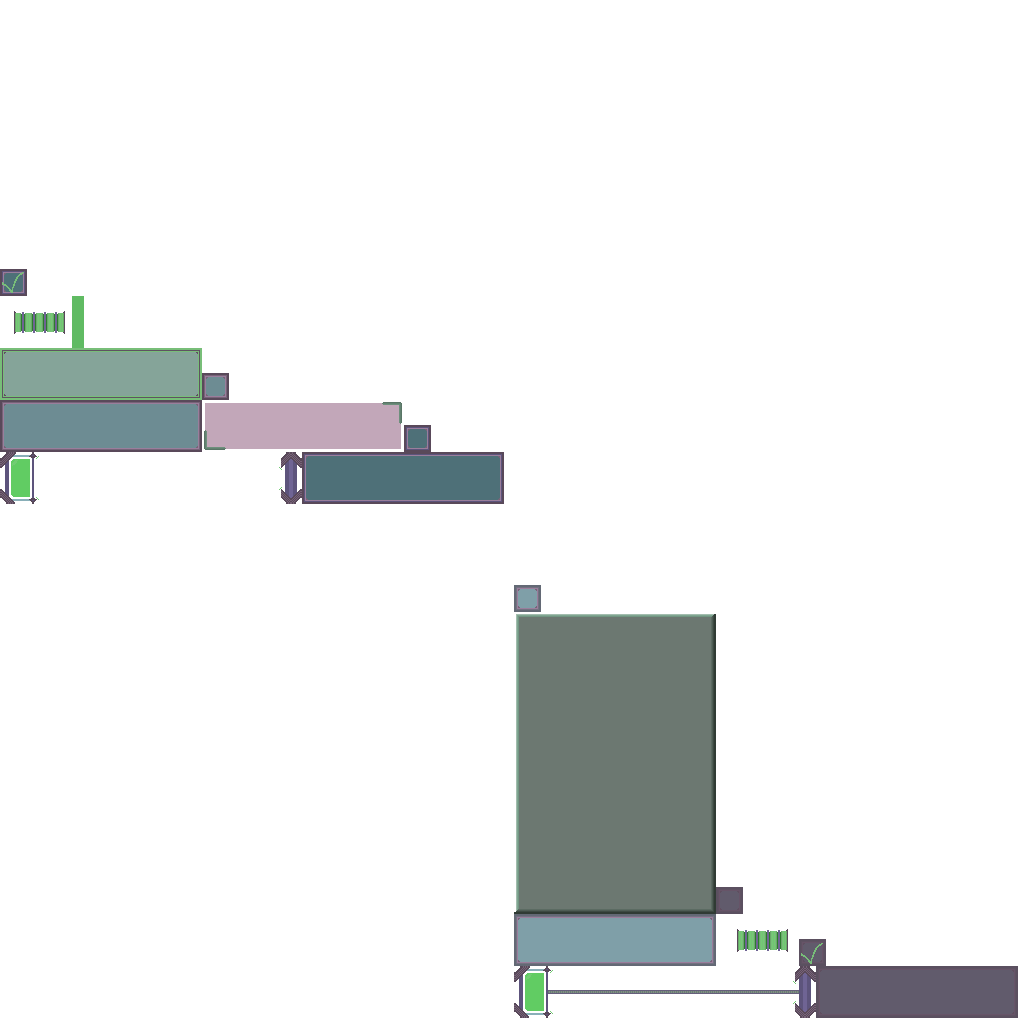
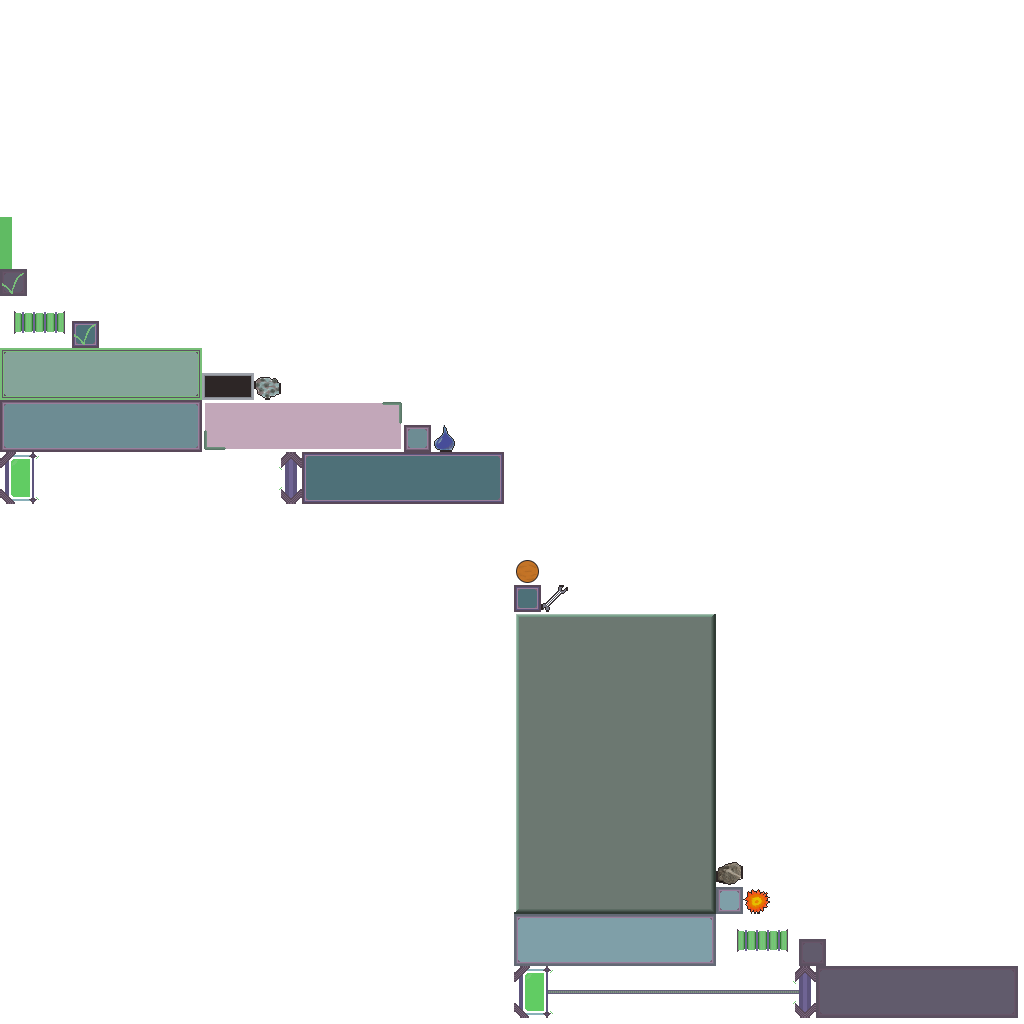
Improved planet stats indication

diff --git a/core/src/com/prophetsofprofit/galacticrush/graphics/screen/MainGameScreen.kt b/core/src/com/prophetsofprofit/galacticrush/graphics/screen/MainGameScreen.kt
@@ -6,6 +6,7 @@ import com.badlogic.gdx.graphics.Texture
 import com.badlogic.gdx.graphics.g2d.BitmapFont
 import com.badlogic.gdx.graphics.glutils.ShapeRenderer
 import com.badlogic.gdx.scenes.scene2d.InputEvent
+import com.badlogic.gdx.scenes.scene2d.ui.ImageButton
 import com.badlogic.gdx.scenes.scene2d.ui.Label
 import com.badlogic.gdx.scenes.scene2d.ui.TextButton
 import com.badlogic.gdx.scenes.scene2d.utils.ClickListener
@@ -38,10 +39,20 @@ class MainGameScreen(game: Main, var player: Player) : GalacticRushScreen(game, 
     val maxZoom = 1f
     //The planet currently selected by the player
     var selectedPlanet: Planet? = null
-    //The list of planet attributes
-    val planetLabel = Label("", Scene2DSkin.defaultSkin, "ui")
-    //The list of drones on the planet
-    val dronesList = Label("", Scene2DSkin.defaultSkin, "ui")
+    //The two panels on the side of the screen that are always displayed
+    val planetLabel = Label("Planet Stats", Scene2DSkin.defaultSkin, "ui")
+    val dronesList = Label("Drones", Scene2DSkin.defaultSkin, "ui")
+    //The icons and labels for planet information
+    val massIcon = ImageButton(Scene2DSkin.defaultSkin, "mass")
+    val temperatureIcon = ImageButton(Scene2DSkin.defaultSkin, "temp")
+    val atmosphereIcon = ImageButton(Scene2DSkin.defaultSkin, "atm")
+    val humidityIcon = ImageButton(Scene2DSkin.defaultSkin, "humid")
+    val solidityIcon = ImageButton(Scene2DSkin.defaultSkin, "solid")
+    val massLabel = Label("", Scene2DSkin.defaultSkin, "small")
+    val temperatureLabel = Label("", Scene2DSkin.defaultSkin, "small")
+    val atmosphereLabel = Label("", Scene2DSkin.defaultSkin, "small")
+    val humidityLabel = Label("", Scene2DSkin.defaultSkin, "small")
+    val solidityLabel = Label("", Scene2DSkin.defaultSkin, "small")
     //Below are the menu buttons: end turn, quit game, etc
     val endTurnButton = TextButton("Submit", Scene2DSkin.defaultSkin)
     val quitGameButton = TextButton("Quit", Scene2DSkin.defaultSkin)
@@ -59,10 +70,12 @@ class MainGameScreen(game: Main, var player: Player) : GalacticRushScreen(game, 
         this.dronesList.height = this.game.camera.viewportHeight / 3
         this.dronesList.setPosition(this.game.camera.viewportWidth - this.dronesList.width,
                 this.game.camera.viewportHeight / 3)
+        this.dronesList.setAlignment(Align.top)
         this.planetLabel.width = this.game.camera.viewportWidth / 8
         this.planetLabel.height = this.game.camera.viewportHeight / 3
         this.planetLabel.setPosition(this.game.camera.viewportWidth - this.dronesList.width,
                 this.game.camera.viewportHeight - this.planetLabel.height)
+        this.planetLabel.setAlignment(Align.top)
 
         this.endTurnButton.setPosition(this.game.camera.viewportWidth - this.endTurnButton.width, 0f)
         this.quitGameButton.setPosition(this.game.camera.viewportWidth - this.endTurnButton.width, this.endTurnButton.height)
@@ -78,6 +91,17 @@ class MainGameScreen(game: Main, var player: Player) : GalacticRushScreen(game, 
                 confirmationButtonNo.isVisible = true
             }
         })
+
+        this.massIcon.setPosition(this.planetLabel.getX() + this.massIcon.width / 5f, this.planetLabel.getY() + 9f * this.massIcon.height)
+        this.temperatureIcon.setPosition(this.planetLabel.getX() + this.temperatureIcon.width / 5f, this.planetLabel.getY() + 7f * this.temperatureIcon.height)
+        this.atmosphereIcon.setPosition(this.planetLabel.getX() + this.atmosphereIcon.width / 5f, this.planetLabel.getY() + 5f * this.atmosphereIcon.height)
+        this.humidityIcon.setPosition(this.planetLabel.getX() + this.humidityIcon.width / 5f, this.planetLabel.getY() + 3f * this.humidityIcon.height)
+        this.solidityIcon.setPosition(this.planetLabel.getX() + this.solidityIcon.width / 5f, this.planetLabel.getY() + 1f * this.solidityIcon.height)
+        this.massLabel.setPosition(this.planetLabel.getX() + 2f * this.massIcon.width, this.planetLabel.getY() + 9.5f * this.massIcon.height)
+        this.temperatureLabel.setPosition(this.planetLabel.getX() + 2f * this.temperatureIcon.width, this.planetLabel.getY() + 7.5f * this.temperatureIcon.height)
+        this.atmosphereLabel.setPosition(this.planetLabel.getX() + 2f * this.atmosphereIcon.width, this.planetLabel.getY() + 5.5f * this.atmosphereIcon.height)
+        this.humidityLabel.setPosition(this.planetLabel.getX() + 2f * this.humidityIcon.width, this.planetLabel.getY() + 3.5f * this.humidityIcon.height)
+        this.solidityLabel.setPosition(this.planetLabel.getX() + 2f * this.solidityIcon.width, this.planetLabel.getY() + 1.5f * this.solidityIcon.height)
 
         this.confirmationLabel.setAlignment(Align.top)
         this.confirmationLabel.width = this.game.camera.viewportWidth / 3
@@ -106,6 +130,16 @@ class MainGameScreen(game: Main, var player: Player) : GalacticRushScreen(game, 
 
         this.uiContainer.addActor(this.planetLabel)
         this.uiContainer.addActor(this.dronesList)
+        this.uiContainer.addActor(this.massIcon)
+        this.uiContainer.addActor(this.temperatureIcon)
+        this.uiContainer.addActor(this.atmosphereIcon)
+        this.uiContainer.addActor(this.humidityIcon)
+        this.uiContainer.addActor(this.solidityIcon)
+        this.uiContainer.addActor(this.massLabel)
+        this.uiContainer.addActor(this.temperatureLabel)
+        this.uiContainer.addActor(this.atmosphereLabel)
+        this.uiContainer.addActor(this.humidityLabel)
+        this.uiContainer.addActor(this.solidityLabel)
         this.uiContainer.addActor(this.endTurnButton)
         this.uiContainer.addActor(this.quitGameButton)
         this.uiContainer.addActor(this.confirmationLabel)
@@ -237,11 +271,17 @@ class MainGameScreen(game: Main, var player: Player) : GalacticRushScreen(game, 
                     + (this.game.windowToCamera(x.toInt(), y.toInt()).y / this.game.camera.viewportHeight - it.y).pow(2)) < it.radius * 10
         }
         if (this.selectedPlanet != null) {
-            this.planetLabel.setText(Attribute.values().joinToString { "${it.toString().capitalize()}:${ (this.selectedPlanet!!.attributes[it]!! * 100).toInt() }%\n" })
-            this.dronesList.setText("Drones: \n${if (this.selectedPlanet!!.drones.isEmpty()) "None" else this.selectedPlanet!!.drones.joinToString{ "$it\n" }}")
+            this.massLabel.setText((this.selectedPlanet!!.attributes[Attribute.MASS]!! * 100).toInt().toString() + "%")
+            this.temperatureLabel.setText((this.selectedPlanet!!.attributes[Attribute.TEMPERATURE]!! * 100).toInt().toString() + "%")
+            this.atmosphereLabel.setText((this.selectedPlanet!!.attributes[Attribute.ATMOSPHERE]!! * 100).toInt().toString() + "%")
+            this.humidityLabel.setText((this.selectedPlanet!!.attributes[Attribute.WATER]!! * 100).toInt().toString() + "%")
+            this.solidityLabel.setText((this.selectedPlanet!!.attributes[Attribute.SOLIDITY]!! * 100).toInt().toString() + "%")
         } else {
-            this.planetLabel.setText("")
-            this.dronesList.setText("")
+            this.massLabel.setText("")
+            this.temperatureLabel.setText("")
+            this.atmosphereLabel.setText("")
+            this.humidityLabel.setText("")
+            this.solidityLabel.setText("")
         }
         return this.selectedPlanet != null
     }
